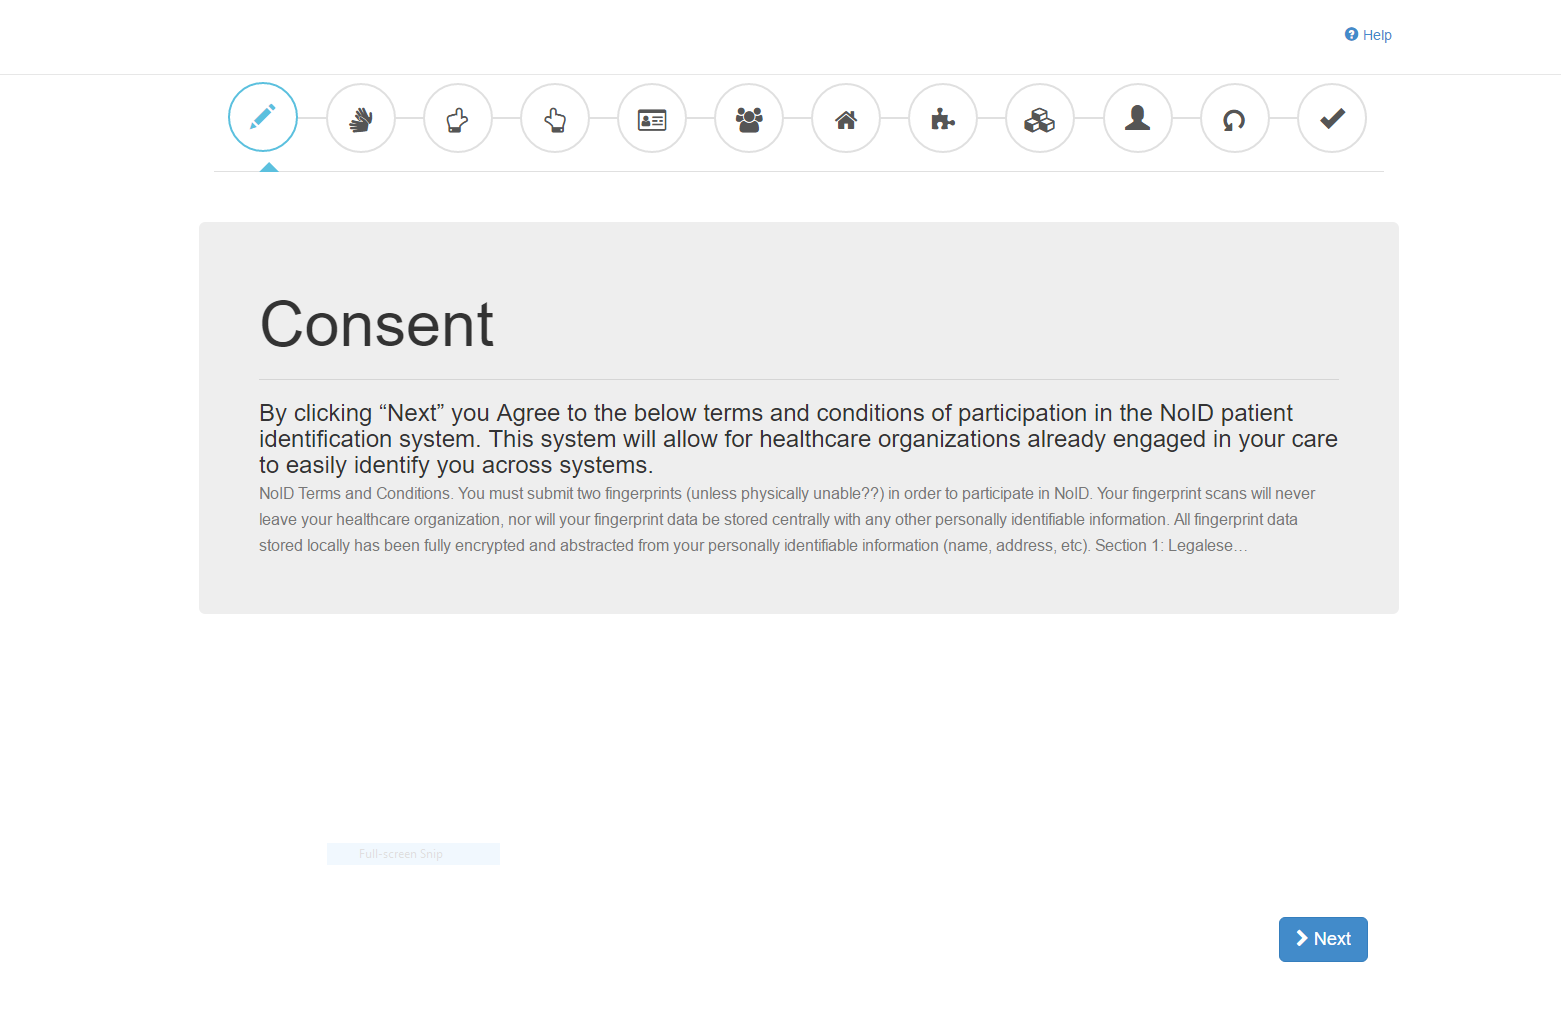
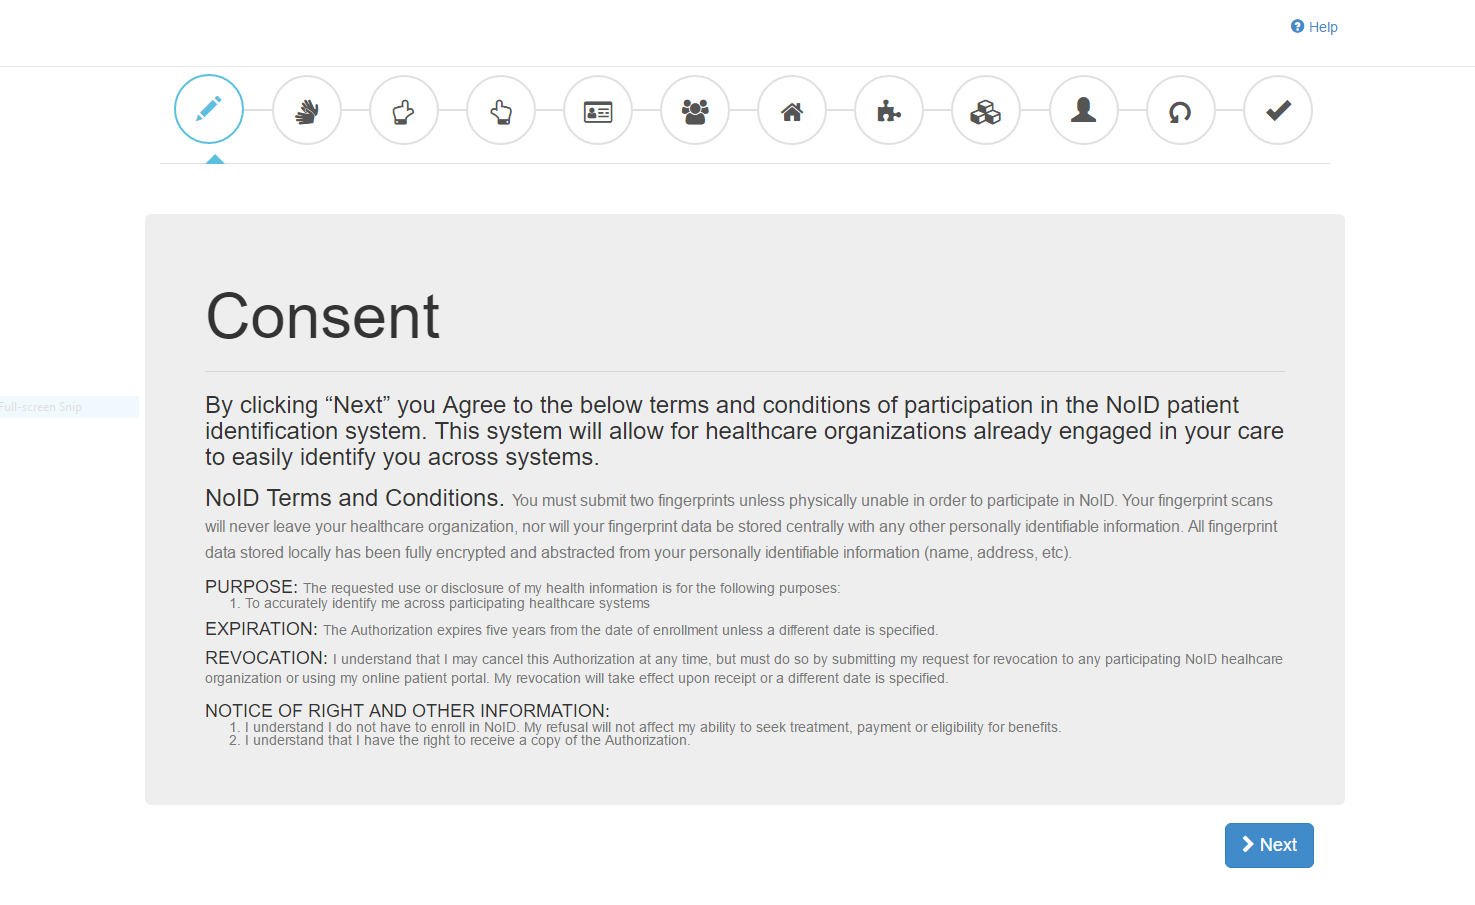
[UI] Update enrollment consent verbiage

diff --git a/source/noid/noid.browser/enrollment.html b/source/noid/noid.browser/enrollment.html
@@ -131,12 +131,31 @@
                                             <hr>
                                             <h3>
                                                 By clicking “Next” you Agree to the below terms and conditions of participation in the NoID patient identification system. This system will allow for healthcare organizations already engaged in your care to easily identify you across systems.
-                                                <br />
-                                                <small>
-                                                    NoID Terms and Conditions. You must submit two fingerprints (unless physically unable??) in order to participate in NoID. Your fingerprint scans will never leave your healthcare organization, nor will your fingerprint data be stored centrally with any other personally identifiable information. All fingerprint data stored locally has been fully encrypted and abstracted from your personally identifiable information (name, address, etc).
-                                                    Section 1: Legalese…
+                                                <p></p>
+                                                NoID Terms and Conditions. 
+                                                <small>You must submit two fingerprints unless physically unable in order to participate in NoID. Your fingerprint scans will never leave your healthcare organization, nor will your fingerprint data be stored centrally with any other personally identifiable information. All fingerprint data stored locally has been fully encrypted and abstracted from your personally identifiable information (name, address, etc).
                                                 </small>
                                             </h3>
+                                            <p></p>
+                                            <h4>PURPOSE: <small>The requested use or disclosure of my health information is for the following purposes:
+                                                    <ol>
+                                                        <li>To accurately identify me across participating healthcare systems</li>
+                                                    </ol>
+                                                </small>
+                                            </h4>
+                                            <h4>EXPIRATION: <small>The Authorization expires five years from the date of enrollment unless a different date is specified.</small>
+                                            </h4>
+                                            <h4>REVOCATION: <small>I understand that I may cancel this Authorization at any time, but must do so by submitting my request 
+                                                for revocation to any participating NoID healhcare organization or using my online patient portal.  My revocation will
+                                                take effect upon receipt or a different date is specified.</small>
+                                                <p></p>
+                                                NOTICE OF RIGHT AND OTHER INFORMATION: <small>
+                                                    <ol>
+                                                        <li>I understand I do not have to enroll in NoID.  My refusal will not affect my ability to seek treatment, payment or eligibility for benefits.</li>
+                                                        <li>I understand that I have the right to receive a copy of the Authorization.</li>
+                                                    </ol>
+                                                </small>
+                                            </h4>
                                         </div>
                                     </div>
                                 </div>
